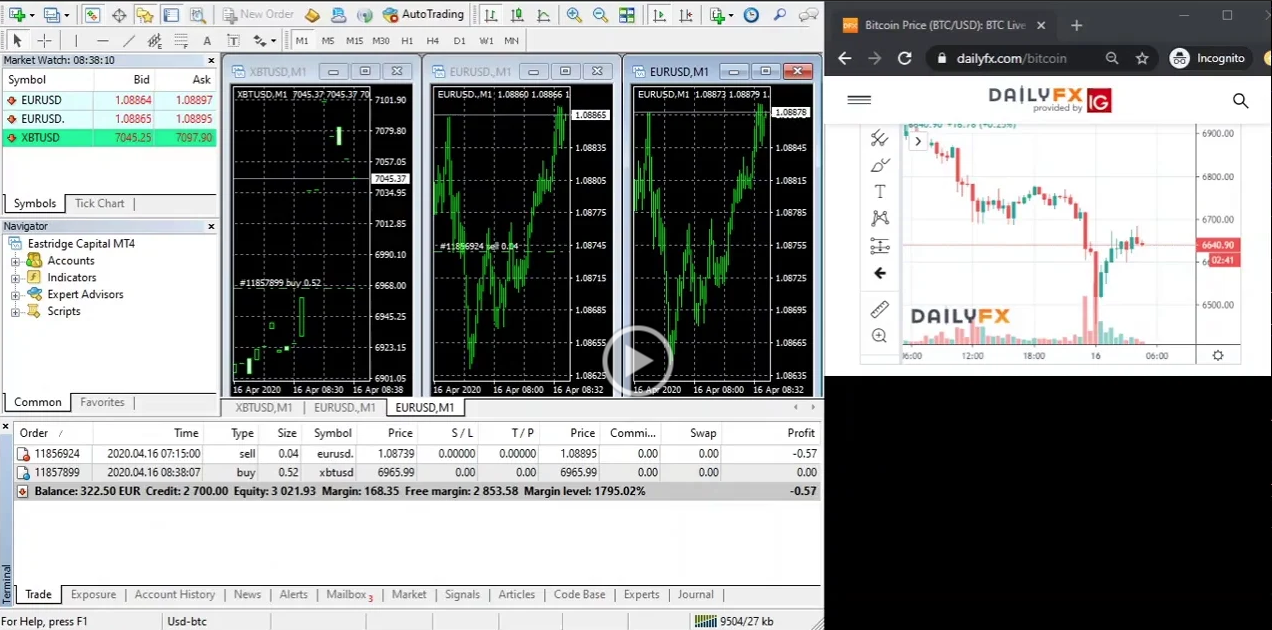
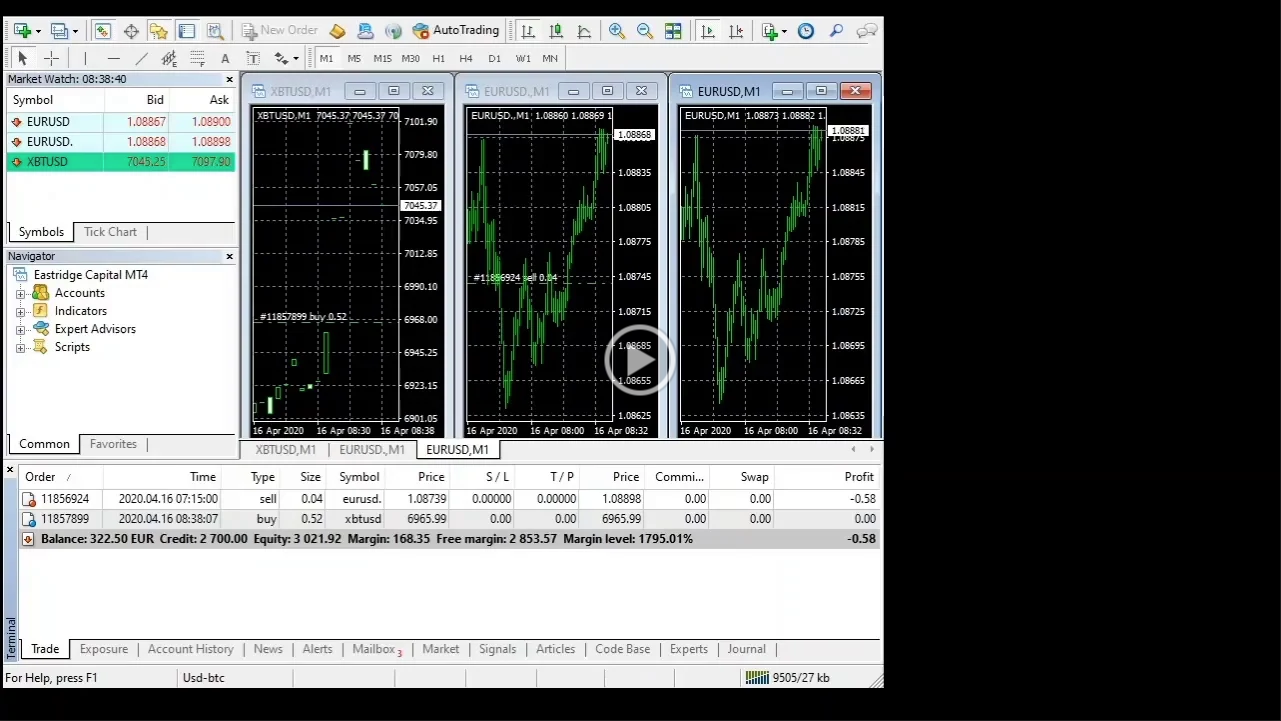
Update article

diff --git a/src/pages/blog/2020-04-16-capital_way_episodul_2_-_demascarea_fraudei.md b/src/pages/blog/2020-04-16-capital_way_episodul_2_-_demascarea_fraudei.md
@@ -23,8 +23,8 @@ tags:
 
  Atașez mai jos exemple de poziții falsificate. Dacă nu ar fi fost aceste tranzacții false, balanța contului tău ar fi afișat de mult valoarea **0**. Menționez că toate orele sunt în timezone **UTC**, în caz că vrei să verifici și tu:
 
-- O înregistrare video care surprinde live manipularea prețului de deschidere. Dacă te uiți la bid-ask pentru XBTUSD vei vedea că la momentul executării tranzacției de cumpărare de la ora **08:38:07 din 16.04.2020** , intervalul era mult în afara prețului de **6965.99** la care botul a "deschis" poziția. Iar dacă te uiți pe grafic vezi ca nu s-au mai efectuat de minute bune tranzacții apropiate de acel preț (zic apropiate, pentru că exact la acel preț nu s-au efectuat deloc. Nici o lumânare recentă la minut nu cuprinde acest preț).  Notă: Ignoră fereastra de Chrome din stânga, voiam să o folosesc  pentru verificarea prețului de la alt exchange, dar Chrome a decis să nu mai actualizeze conținutul ferestrei): 
-[![Proba video](/img/capitalway_scam_vid1.png)](https://drive.google.com/open?id=18RE9LcQMCR-SCDXSSzgoQtF-LUNN0y1U)
+- O înregistrare video care surprinde live manipularea prețului de deschidere. Dacă te uiți la bid-ask pentru XBTUSD vei vedea că la momentul executării tranzacției de cumpărare de la ora **08:38:07 din 16.04.2020** , intervalul era mult în afara prețului de **6965.99** la care botul a "deschis" poziția. Iar dacă te uiți pe grafic vezi ca nu s-au mai efectuat de minute bune tranzacții apropiate de acel preț (zic apropiate, pentru că exact la acel preț nu s-au efectuat deloc. Nici o lumânare recentă la minut nu cuprinde acest preț).  
+[![Proba video](/img/capitalway_scam_vid1.png)](https://drive.google.com/open?id=1Ufe27hPN_g6RsIYa3TM8VXh0sIwpcy9C)
 
 &nbsp;
 
